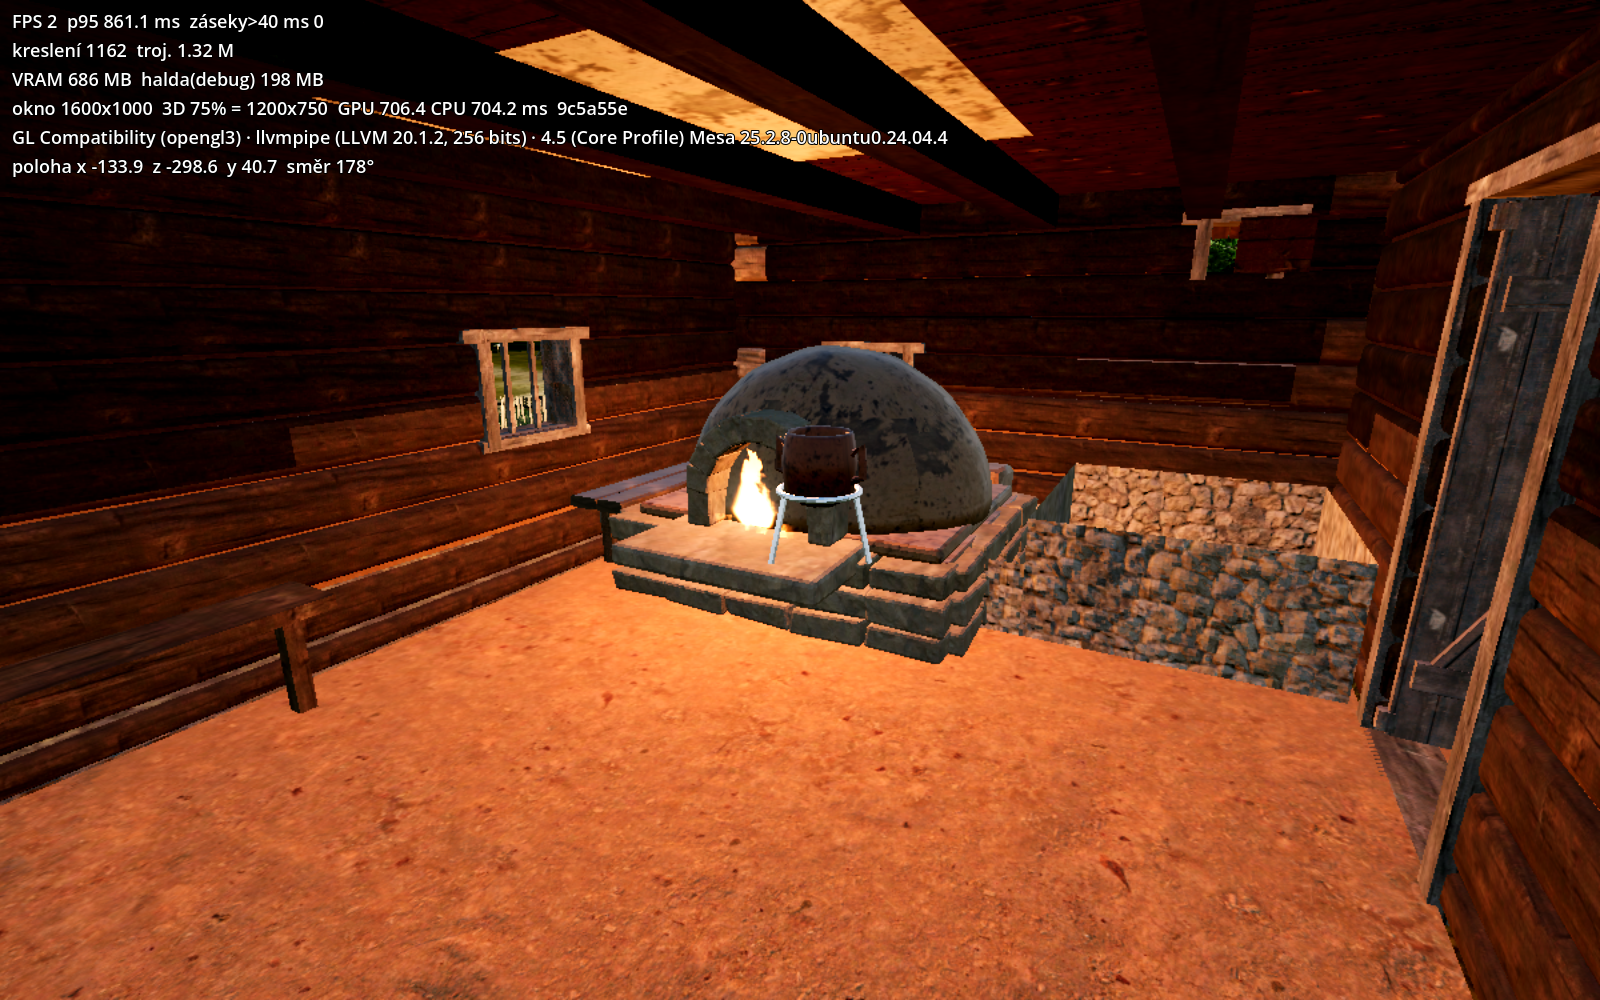
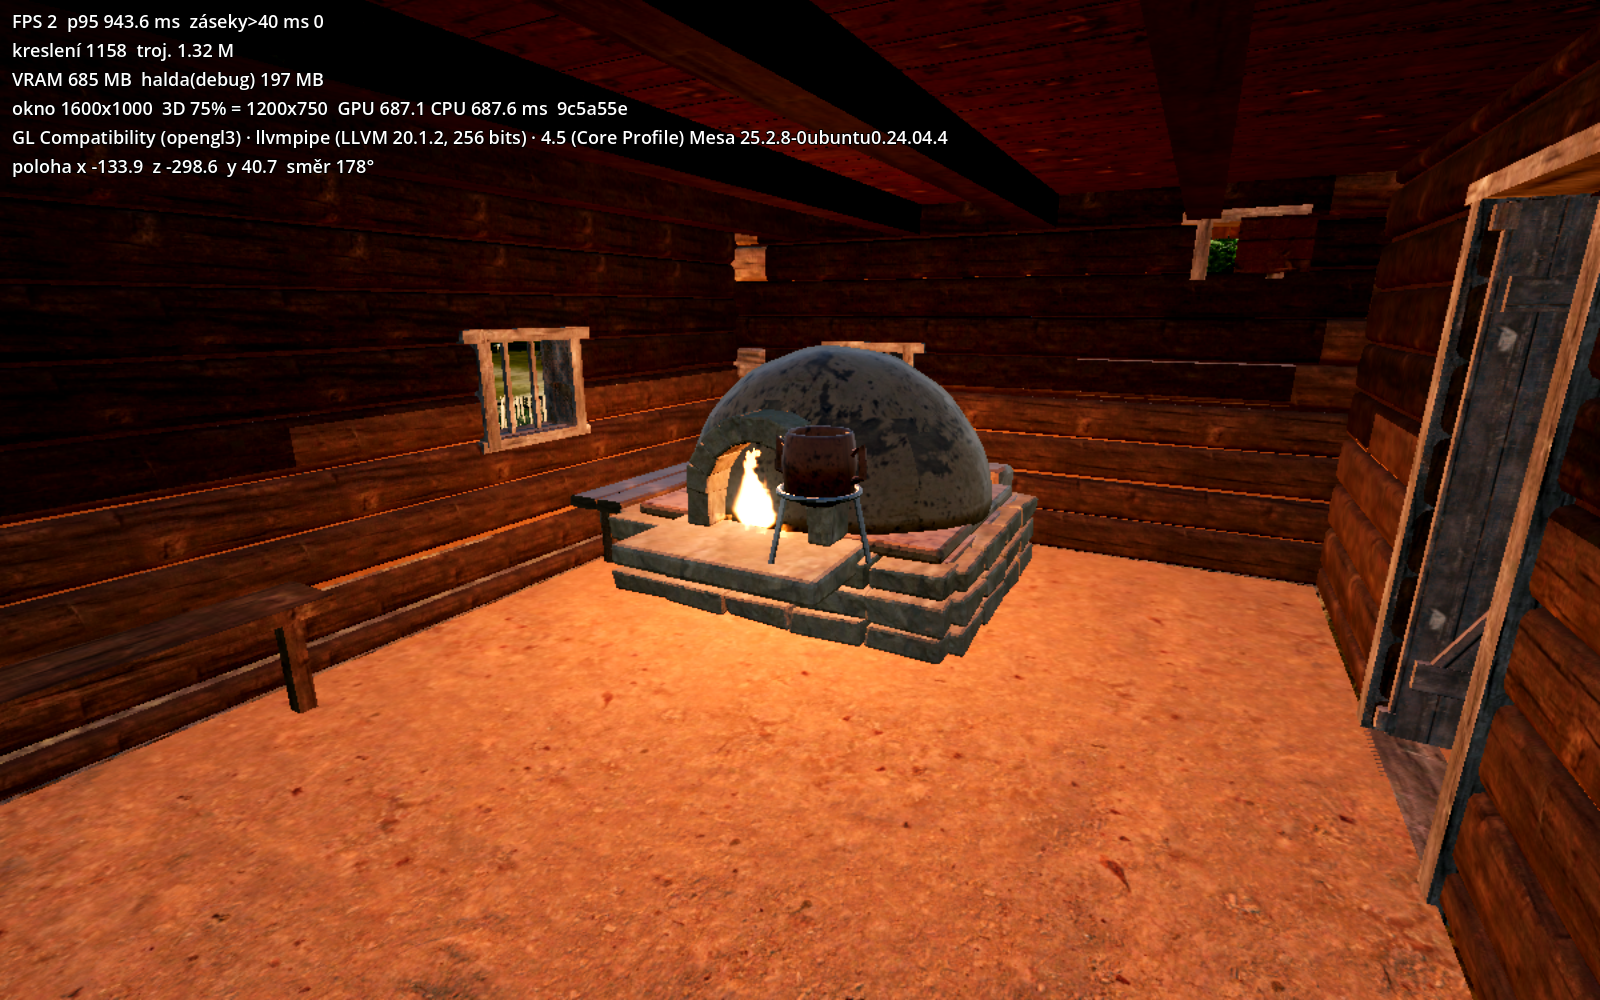
Topení od modeláře zapojené: pece v chalupách, krčmě a hájovně, kuchyňská topeniště, hradní kamna, krb Rychty s komínem, krb hradu B; nádobí v katalogu; testy ohňů a průchodu OK
Claude-Session: https://claude.ai/code/session_01DmjHz97xAq6SrpN6r8jG8o

diff --git a/puchart/docs/chyby.md b/puchart/docs/chyby.md
@@ -305,3 +305,7 @@
 | 320 | „Místo pecí bych možná dal krby, jsou hezčí na oko“; „když jsem hrál KCD, tak všechny ohně hořely pořád, protože jinak byla v místnostech tma a šero“ (Míša 15. 11.) | pece Dum1/Dum2/Rychta (domy.glb, ves Předhradí), všechny ohně (ohne.json) | pec svítila jen světlem (plamen [0, 0] – předpoklad, že se topí zvenku jizby; ústí M_Tma ale míří do jizby); ohně hořely jen v noci / v hodinách vaření | ohne.json: mista[].usti (střed spodní hrany ústí, směr, š × v z rozboru sítě M_Tma) + usti_uzel (budoucí značka <Dům>_Pec_Usti), druh pec usti_plamen / usti_uhliky_v, uhliky.material_modelu M_Zhar, všechny hori vzdy (hori_vzdy), rozpocet.poradi_hystereze_m; ohne.gd _usti/_karta, shader uhlíků i na svislém pruhu | test_ohne: „OHNE_TEST pece s ohněm v ústí“ (plamen + uhlíky viditelné, uvnitř obalu kolize pece, Dum1/Dum2/Rychta), „nehoří 0 ohňů“ v 6/14/17/22 h, „ves chůze“ (≤ svetel_max, nejbližší, 0 bliknutí); snímek docs/screens/ohen_pec_usti.png | opraveno 15. 11. |
 | 321 | Krby „hezké dobové dle KCD, žádný hnus ze skriptu“; pece a kamna předělat (Míša 15. 11.) | krb Rychty, krby hradu A/B, všechny pece | geometrii dodá modelář (glb s NAVOD) – generátor krby nestaví; hra musí glb sama napojit, až přijde | pravidla/svet/krby.json (vlozit: Rychta krb_rychta.glb, poloha a yaw v souřadnicích modelu, pozadavky_glb; mista_pro_modelare: soupis pecí, kamen, ohnišť a návrhů krbů s rozměry a kouřovodem), hlavni.gd _krb, ohne.json rychta_krb / krb_obecny (značka *_Krb_Ohen) | test_ohne: „krb Rychta: přeskočeno – model nedodán“ / po dodání oheň hoří; „krby hradu: přeskočeno“ / po dodání hoří | čeká na modely |
 | 330 | Krok nahoru nesmí vynést postavu na zídku, předprseň ochozu ani zábradlí (zadání 15. 11. k č. 315: „postava nesmí vyskakovat na hrany zdí a zábradlí“) | ochozy A a B, věžička A, pavlač krčmy | Havranův _step_up přijme i dopad na hranu (normála dotyku kapsle s hranou) | hrac.gd _zkus_schod: paprsek shora schod_hloubka_min_m (0,2 m) za hranou musí trefit pochozí plochu ve výšce stupně; nový test pruchod:nevylezt (kontroly_hra.json nevylezt: na vodorovných úsecích tras ochozů a pavlače chůze 2,5 s kolmo proti překážce, max stoupání 0,05 m) | pruchod:nevylezt (78 zkoušek, stoupla 0,00 m) | opraveno 15. 11. |
+| 340 | Pece, krby, kamna a kuchyně „ze skriptu“ nahradit modely Míšina modeláře (zadání 15. 11.; Míša: „krby a pece do kuchyně se mi víc líbí v doplňku“) | chalupy Dum1/Dum2/Rychta, krčma (šenkovna, černá kuchyně), hájovna (jizba), hrad A (černá kuchyně, světnice), hrad B (síň), krb a komín Rychty | stará pec Havrana v síti domy.glb, ohniště a pec v glb krčmy/hájovny, ohniště s dýmníkem a kamna z kvádrů v puchart_hrad.py | pravidla/svet/topeni.json (zdroj zipů z Disku, modely, varianty, vlozit, upravy_domy, materialy, trasy); nastroje/topeni_modely.py (přebalení, sdílené textury, nádobí do katalogu), nastroje/topeni_domy.py (stará pec pryč, prostup komína Rychty), mista.json upravy_modelu (krčma, hájovna), hrad_puchart.json vybaveni.topeni_generator false, hlavni.gd _topeni, ohne.json (značky modelů) | hlidac:ohne (OHNE_TEST … OK: pece 5 míst s ohněm v ústí, krby Rychta a B, kuchyně krčmy a hradu), pruchod:topeni_krcma_KrcmaL_9, pruchod:topeni_hajovna_Hajovna_10, pruchod:topeni_predhradi_Rychta_3; snímky docs/screens/topeni_*.png | opraveno 15. 11. (krb síně hradu A nevložen – č. 341) |
+| 341 | Krb síně 1. patra hradu A (krby.json hradA_krb_navrh) by zakryl nástup na schody do podkroví | síň paláce A u hradby, u 5,06…7,75 | volno mezi příčkou světnice a schody jen 2,7 m; Krb_Sinovy_Vysoky 3,00 m, Krb_Hradni 2,67 m stojí přes bod nástupu (trasa A_palac „uvízla … narazila na Krb_Hradni“) | topeni.json neumisteno (hradA_krb) – rozhodnutí Míši: přesunout schody do podkroví, nebo krb jinam | pruchod:A_palac; snímek docs/screens/topeni_hrad_krb_A_zakryva_schody.png | čeká na Míšu |
+| 342 | Kované železo modelů topení se lesklo jako nerez (trojnožka, kozlíky, háky, nádobí) | všechna topení a nádobí | materiál Kovane_zelezo(_zakourene) bez barevné textury a baseColorFactor → bílý kov (metallic 0,72–0,85) | topeni.json materialy: baseColorFactor tmavá šeď (u zdroje při přebalení) | snímek docs/screens/topeni_krcma_kuchyne.png | opraveno 15. 11. |
+| 343 | Začouzení stropu (Zacouzeni_Stropu) v jizbách vypadalo jako světlá omítková záplata mezi trámy | jizby domů nad pecí | modul je deska vápenné omítky pro omítnutý strop; záklop domů je dřevěný a v modelu Havrana už začouzený | topeni.json zacouzeni_stropu: nevkládá se (polohy uloženy) | snímek docs/screens/topeni_pec_chalupa.png | opraveno 15. 11. |

diff --git a/puchart/docs/zakazka_modelar.md b/puchart/docs/zakazka_modelar.md
@@ -58,6 +58,7 @@ Chalupní pec: hliněná klenutá pec na kamenné podezdívce, ústí s čelem, 
 a trojnožkou, začouzené okolí ústí a strop, lavice kolem, zápecí. Hradní kamna: kachle 14. st.
 (miskové/nádobkové) v hliněném plášti. Ohniště černé kuchyně: vyvýšené kamenné, dýmník, trojnožka a kotel.
 Snímky současného stavu: docs/screens/pec_stav_*.jpg.
+**Dodáno 15. 11.** (Topeni_1400 + Doplněk, Disk): osazeno podle `pravidla/svet/topeni.json` (vlozit, proc u každého místa) – pece chalup a hájovny Pec_Chalupni, krčma Pec_Krcma + Topeniste_Kuchynske_Siroke, hrad A kuchyně Topeniste (bez odtahu) a Kamna_Hradni_Nadobkova, hrad B Krb_Sinovy_Vysoky, Rychta Krb_Rychta + 5× Komin_Rychta_Dil_1m (síňový krb je na jizbu vysoký), krb síně hradu A nevložen (blokoval by schody do podkroví – chyby.md 341), Zacouzeni_Stropu nevloženo (omítka na dřevěném záklopu – 343); snímky docs/screens/topeni_*.png.
 
 ## 8) Seno (předloha docs/reference/seno/kcd1_seno_staj_misa_15_11.jpg)
 Fotorealistické suché luční seno, bledé slámově béžovo-šedé, matné; hustá spleť tenkých zvlněných stébel,
